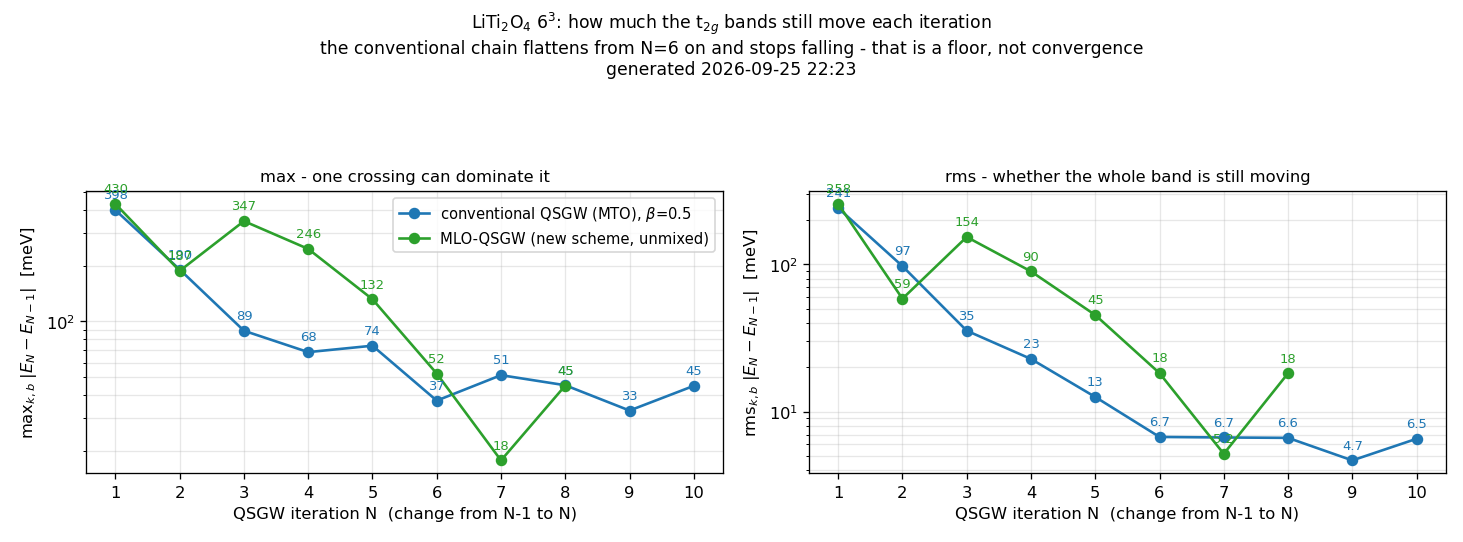
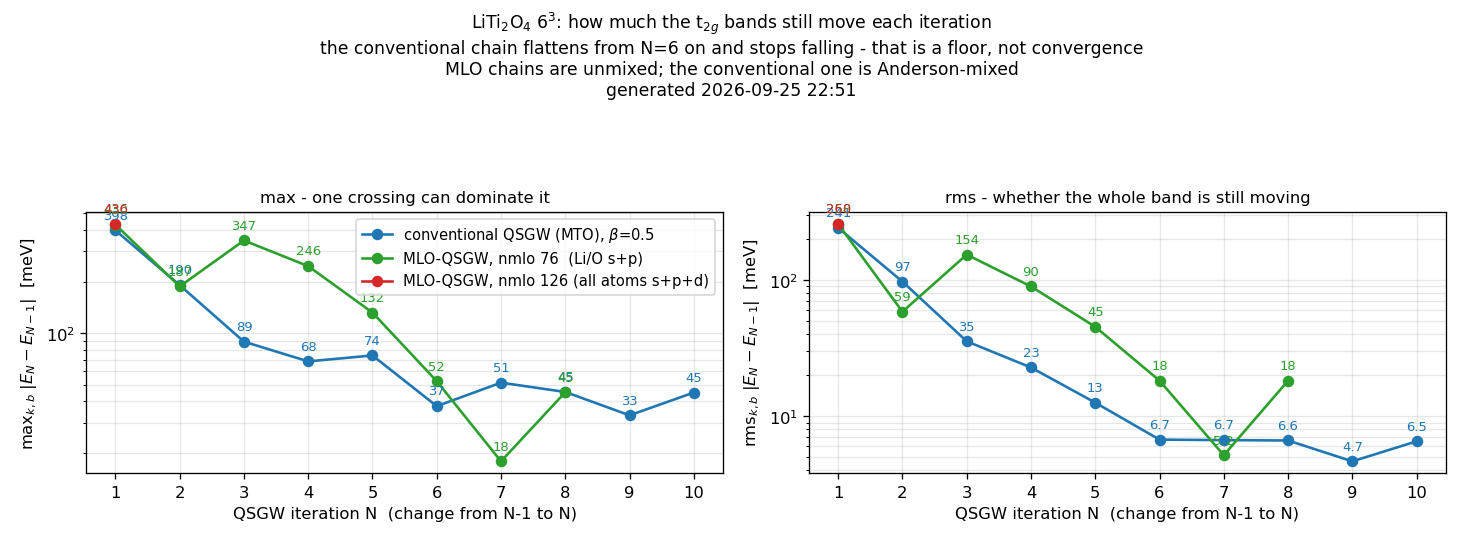
mlo_rows/mlo_conv: take several MLO chains, one column each
So the nmlo 76 and nmlo 126 chains sit beside the conventional one in the same
drawing.  mlo_rows takes comma-separated dirs and labels, and its rows are now
driven by the longest chain rather than the last column.  mlo_conv drops a chain
that has no iterations yet.

What the three columns show at iteration 4 and beyond: the conventional chain has
bumps in the upper bands at x = 0.45 and 0.8, midway between the Sigma mesh points,
and the MLO chain does not -- but the MLO chain has a shoulder in the lowest
occupied band around x = 0.3-0.5 that the conventional one does not.  The ringing
has moved from above E_F to below it.

diff --git a/Samples/kBT/LiTi2O4/mlo_rows.py b/Samples/kBT/LiTi2O4/mlo_rows.py
@@ -8,10 +8,13 @@ import matplotlib.pyplot as plt
 from matplotlib.ticker import MultipleLocator
 
 ROOT, OUT = sys.argv[1], sys.argv[2]
-MLODIR = sys.argv[3] if len(sys.argv) > 3 else 'frozen'
-MLOLAB = sys.argv[4] if len(sys.argv) > 4 else 'MLO-QSGW'
-COLS = [('conventional QSGW (MTO), pwmode=1', f'{ROOT}/ref',    'tab:blue'),
-        (MLOLAB, f'{ROOT}/{MLODIR}', 'tab:green')]
+# argv[3] and argv[4] are comma-separated: one MLO chain per column, left to right
+MLODIR = (sys.argv[3] if len(sys.argv) > 3 else 'frozen').split(',')
+MLOLAB = (sys.argv[4] if len(sys.argv) > 4 else 'MLO-QSGW').split(',')
+MLOCOL = ['tab:green', 'tab:red', 'tab:purple', 'tab:orange']
+COLS = [('conventional QSGW (MTO), pwmode=1', f'{ROOT}/ref', 'tab:blue')] + \
+       [(MLOLAB[i] if i < len(MLOLAB) else d, f'{ROOT}/{d}', MLOCOL[i % len(MLOCOL)])
+        for i, d in enumerate(MLODIR)]
 
 def rd(f):
     xs, es, cx, ce = [], [], [], []
@@ -29,7 +32,7 @@ MESH = [0.0, 1/3, 2/3, 1.0]; IDX = [0, 70, 140, 210]; LO, HI = 32, 44
 def path(d, it): return f'{d}/bnd_lda.dat' if it == 0 else f'{d}/bnd_iter{it}.dat'
 
 # rows are driven by the MLO chain (last column); the MTO column is shown alongside
-iters = [0] + [i for i in range(1, 31) if os.path.exists(path(COLS[-1][1], i))]
+iters = [0] + [i for i in range(1, 31) if any(os.path.exists(path(c[1], i)) for c in COLS[1:])]
 n = len(iters)
 fig, AX = plt.subplots(n, len(COLS), figsize=(4.9 * len(COLS) + 0.4, 2.5 * n + 1.0),
                        sharex=True, sharey=True, squeeze=False)

diff --git a/Samples/kBT/LiTi2O4/mlo_conv.py b/Samples/kBT/LiTi2O4/mlo_conv.py
@@ -23,8 +23,10 @@ def chain(d):
         f = f'{d}/bnd_lda.dat' if i == 0 else f'{d}/bnd_iter{i}.dat'
         if os.path.exists(f): o[i] = rd(f)
     return o
-C = [('conventional QSGW (MTO), $\\beta$=0.5', chain(f'{ROOT}/ref'), 'tab:blue'),
-     ('MLO-QSGW (new scheme, unmixed)',        chain(f'{ROOT}/v6'),  'tab:green')]
+C = [('conventional QSGW (MTO), $\\beta$=0.5',   chain(f'{ROOT}/ref'), 'tab:blue'),
+     ('MLO-QSGW, nmlo 76  (Li/O s+p)',        chain(f'{ROOT}/v6'),  'tab:green'),
+     ('MLO-QSGW, nmlo 126 (all atoms s+p+d)', chain(f'{ROOT}/v7'),  'tab:red')]
+C = [c for c in C if len(c[1]) > 1]
 fig, AX = plt.subplots(1, 2, figsize=(12.4, 4.6), sharex=True)
 for ax, how, lab in [(AX[0], 'max', r'max$_{k,b}\;|E_N-E_{N-1}|$  [meV]'),
                      (AX[1], 'rms', r'rms$_{k,b}\;|E_N-E_{N-1}|$  [meV]')]:
@@ -45,6 +47,7 @@ AX[0].set_title('max - one crossing can dominate it', fontsize=10)
 AX[1].set_title('rms - whether the whole band is still moving', fontsize=10)
 fig.suptitle('LiTi$_2$O$_4$ 6$^3$: how much the t$_{2g}$ bands still move each iteration\n'
              'the conventional chain flattens from N=6 on and stops falling - that is a floor, not convergence\n'
+             'MLO chains are unmixed; the conventional one is Anderson-mixed\n'
              f'generated {datetime.datetime.now():%Y-%m-%d %H:%M}', fontsize=10.5)
 plt.tight_layout(rect=[0, 0, 1, 0.88])
 plt.savefig('/home/takao/ecalj/Samples/kBT/LiTi2O4/mlo_conv.png', dpi=118)
